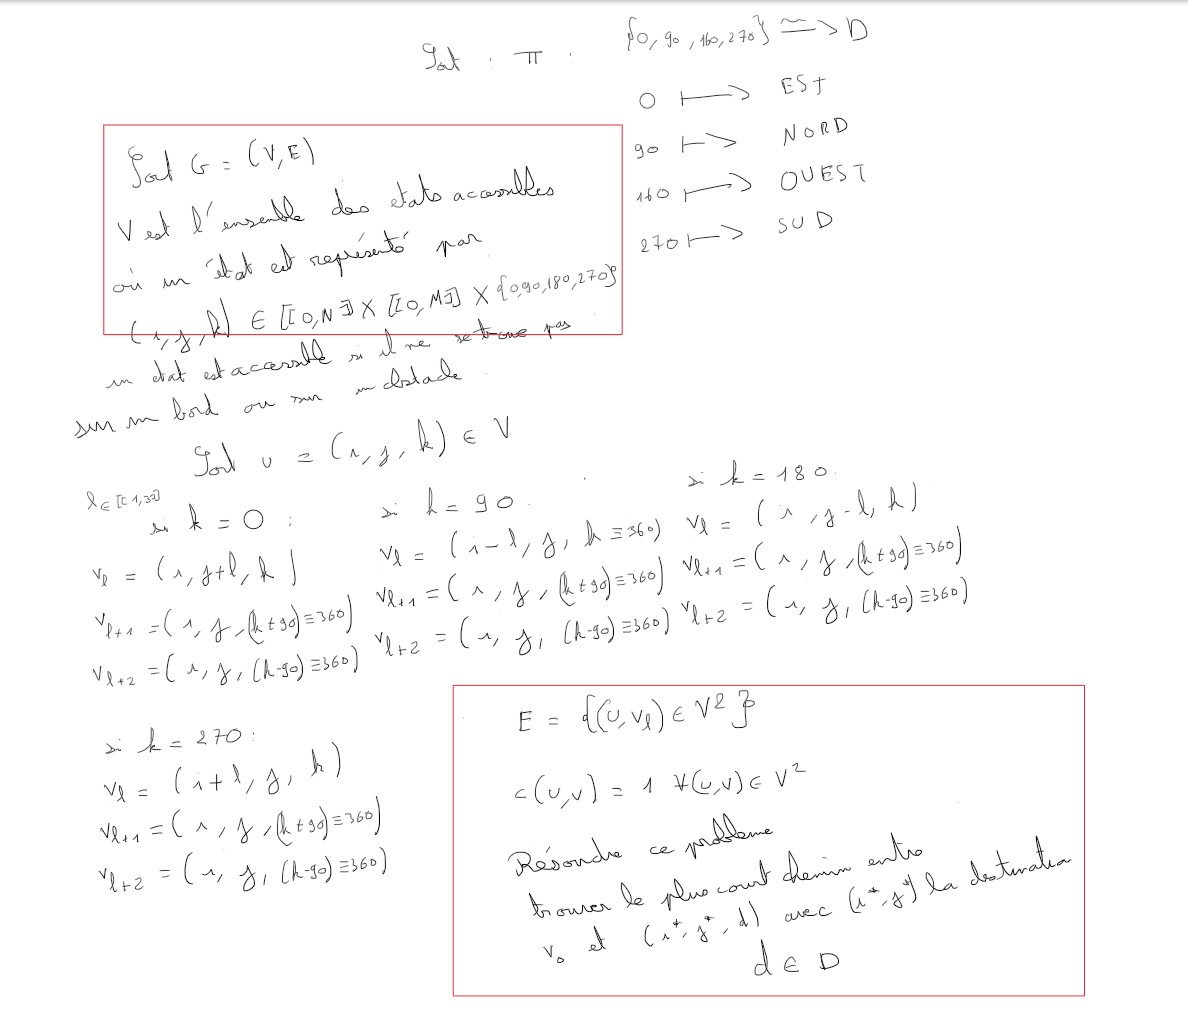
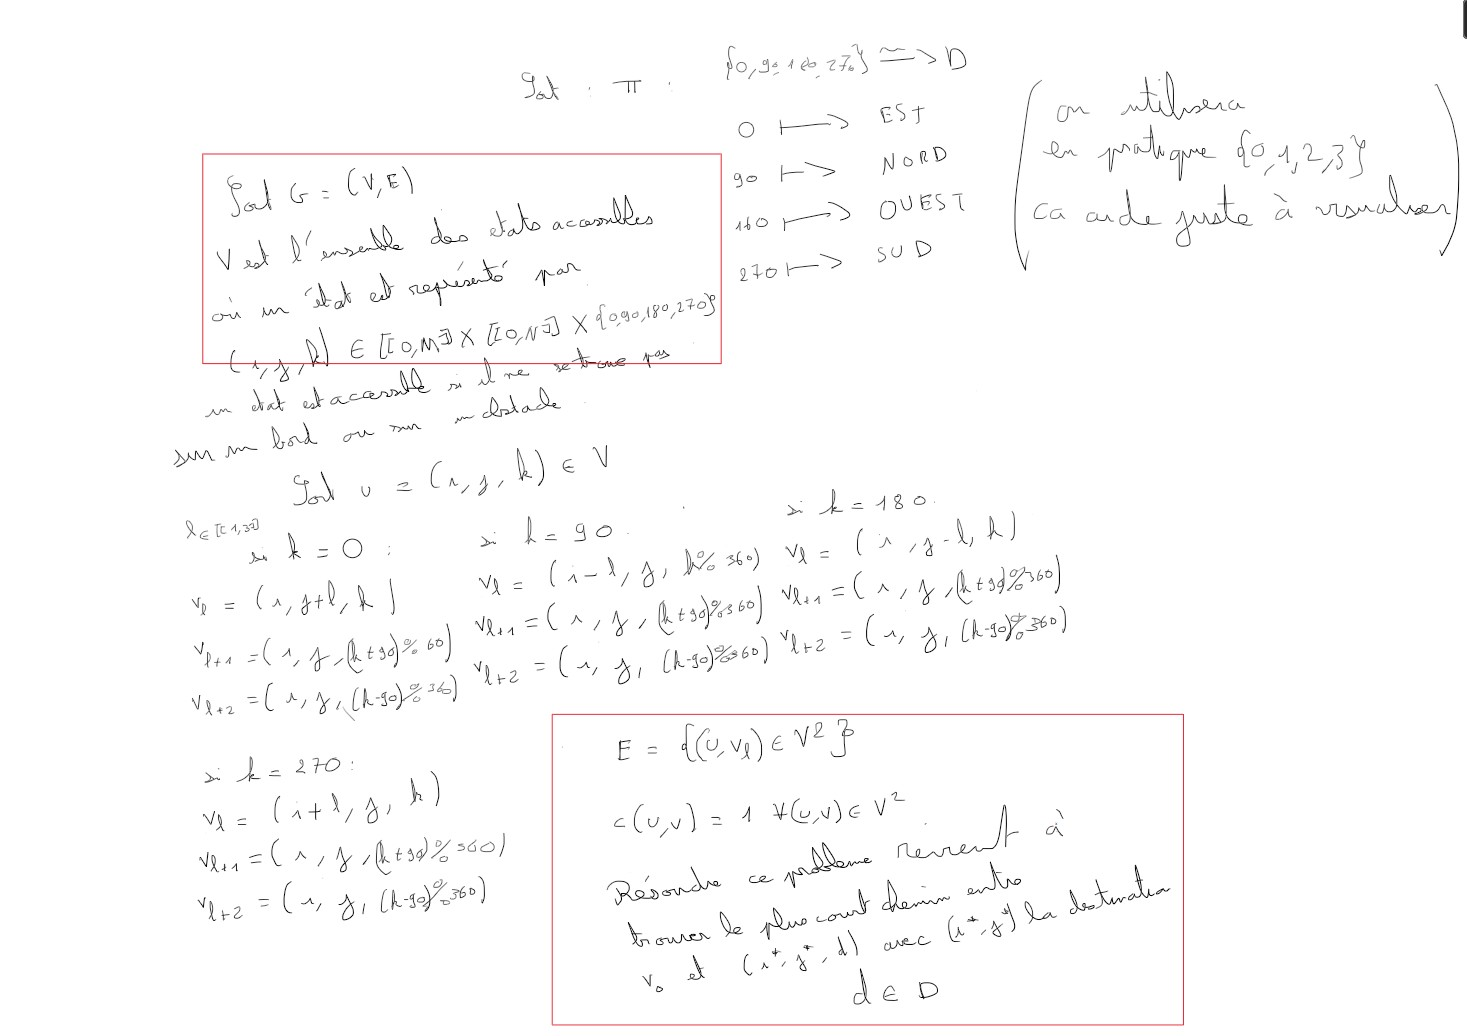
Initialisation du projet

diff --git a/src/Instance.java b/src/Instance.java
@@ -1,0 +1,35 @@
+import java.util.Scanner;
+
+public class Instance {
+    public int M, N;
+    public int[][] grid;
+    public int D1, D2, startDir;
+    public int F1, F2;
+
+
+    public Instance(int M, int N, Scanner sc){
+        this.M = M;
+        this.N = N;
+        this.grid = new int[M][N];
+        for (int i = 0; i < M; i++){
+            for (int j = 0; j < N; j++){
+                grid[i][j] = sc.nextInt();
+            }
+        }
+        this.D1 = sc.nextInt();
+        this.D2 = sc.nextInt();
+        this.F1 = sc.nextInt();
+        this.F2 = sc.nextInt();
+        this.startDir = parse_dir(sc.next());
+    }
+
+    private int parse_dir(String dir){
+        return switch (dir) {
+            case "est" -> 0;
+            case "nord" -> 1;
+            case "ouest" -> 2;
+            case "sud" -> 3;
+            default -> -1;
+        };
+    }
+}

diff --git a/src/Main.java b/src/Main.java
@@ -1,0 +1,28 @@
+import java.io.File;
+import java.io.FileNotFoundException;
+import java.util.Scanner;
+
+public class Main {
+    public static void main(String[] args){
+        String file = "instances/instance1.txt";
+
+        if (args.length > 0) {
+            file = args[0];
+        }
+        try{
+            Scanner sc = new Scanner(new File(file));
+            while (true){
+                int N = sc.nextInt();
+                int M = sc.nextInt();
+                if(N == 0 || M == 0){
+                    break;
+                }
+                Instance i = new Instance(M,N,sc);
+            }
+        }
+        catch(FileNotFoundException e){
+            e.printStackTrace();
+        }
+    }
+
+}

diff --git a/src/State.java b/src/State.java
@@ -1,0 +1,17 @@
+public class State {
+    public int r,c,dir;
+
+    // Pour le BFS vu que tous nos arêtes sont de poids 1
+    public int time;
+    State parent;
+    String action;
+
+    public State(int r, int c, int dir, int time, State parent, String action){
+        this.r = r;
+        this.c = c;
+        this.dir = dir;
+        this.time = time;
+        this.parent = parent;
+        this.action = action;
+    }
+}

diff --git a/src/Solver.java b/src/Solver.java
@@ -1,0 +1,3 @@
+public class Solver {
+ // utiliser BFS, pas besoin de construire le graphe explicitement normalement
+}
